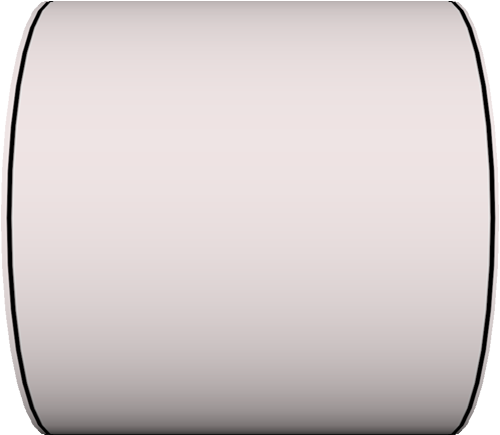
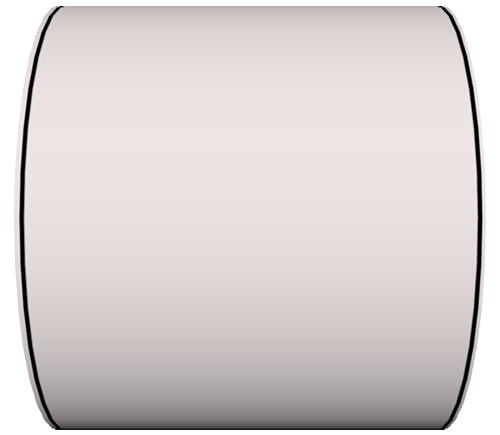
Adjust perspective, smaller cylinder image.

Changed region(s): [[0.0, 0.0, 1.0, 1.0]]

diff --git a/css/style.css b/css/style.css
@@ -145,7 +145,7 @@ h1 .line-3 {
   height: 400px;
   padding-left: 20px;
   margin: 0 auto;
-  -webkit-perspective: 800;
+  -webkit-perspective: 1000;
   -webkit-perspective-origin: 50% 165px;
 }
 
